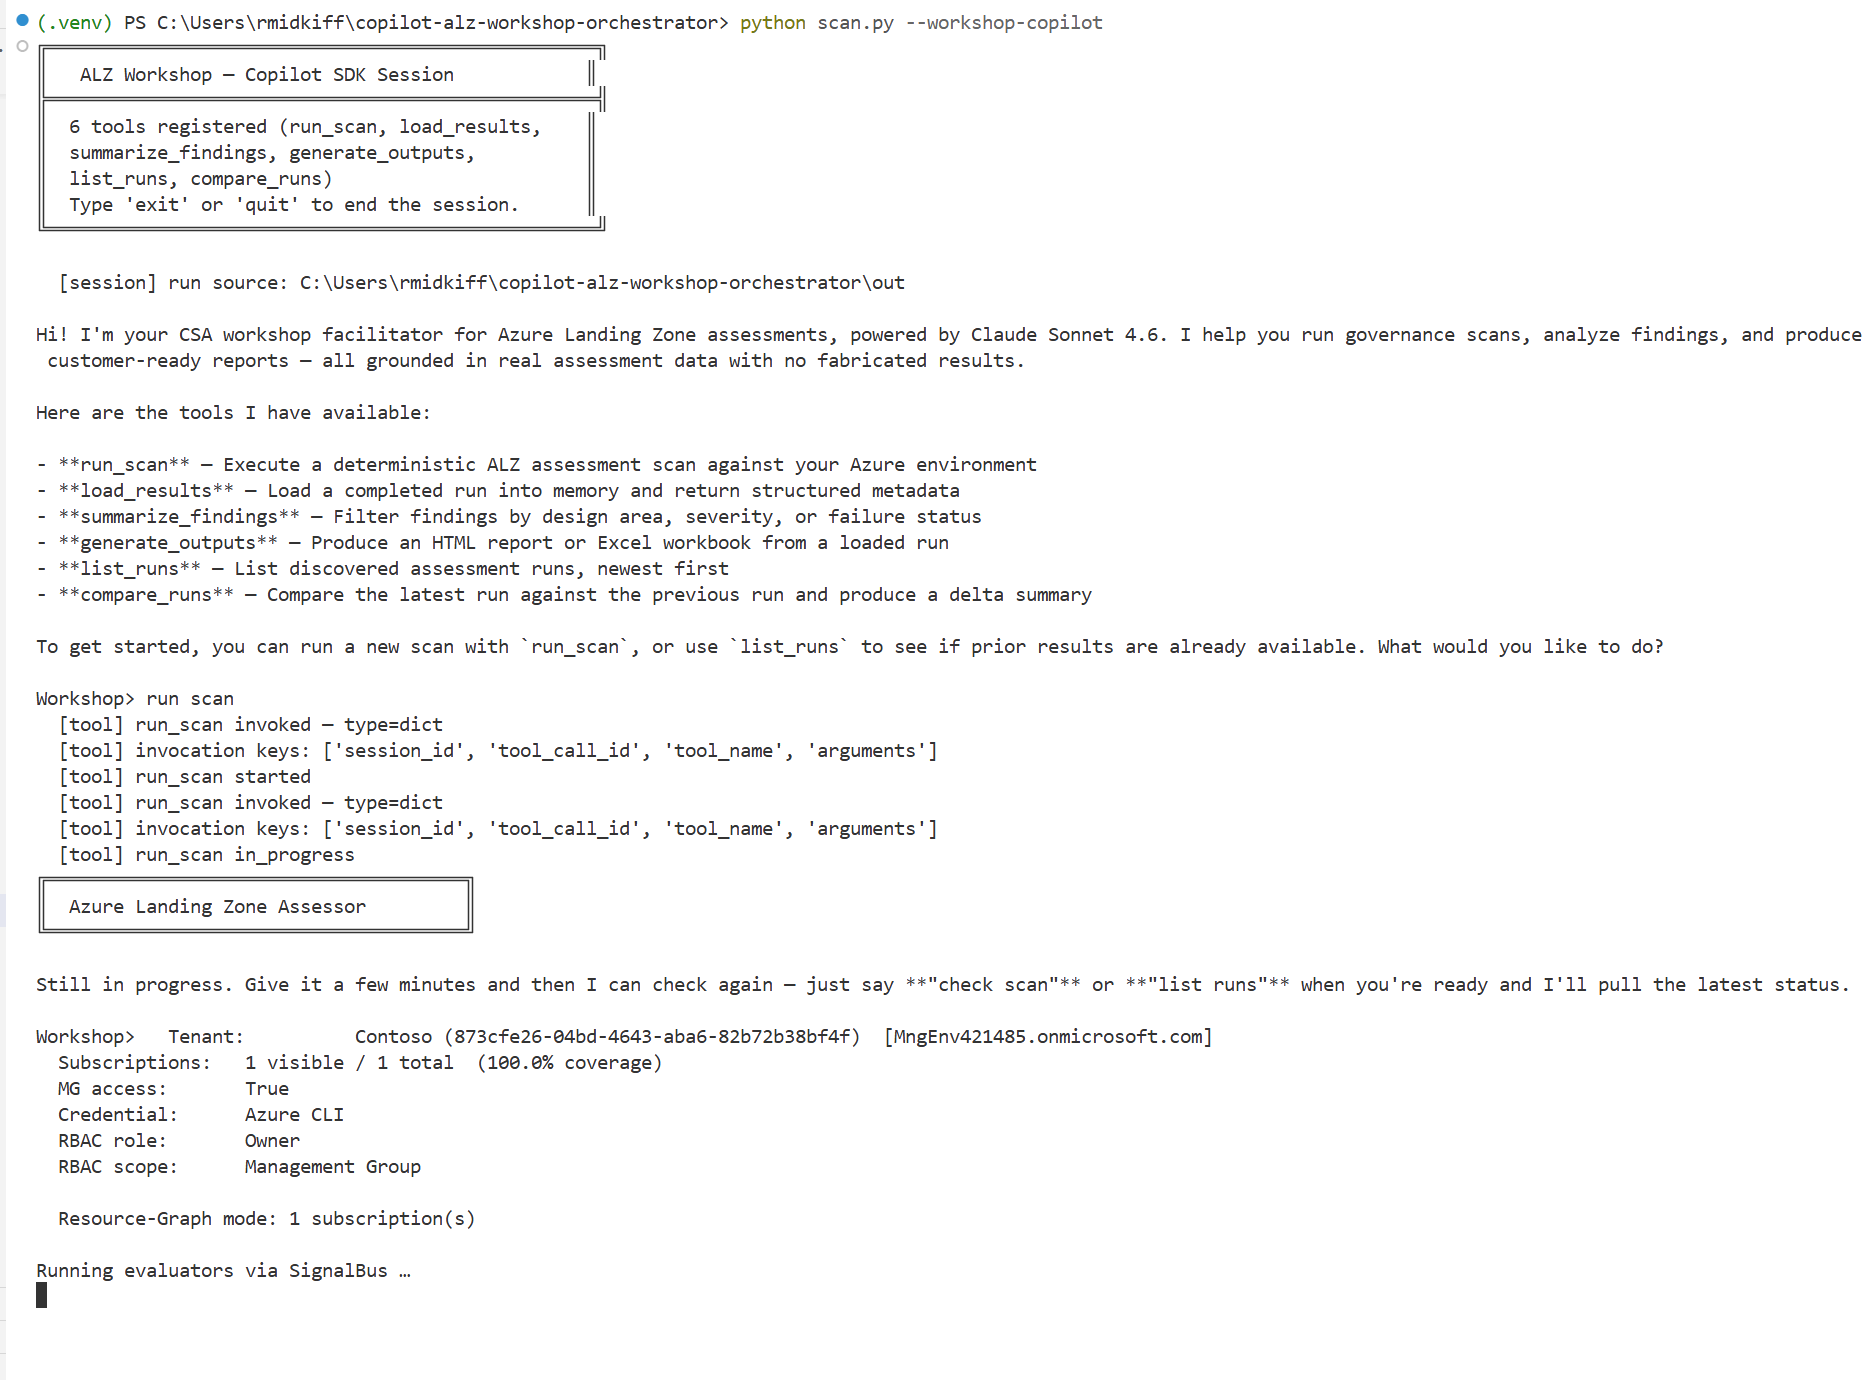
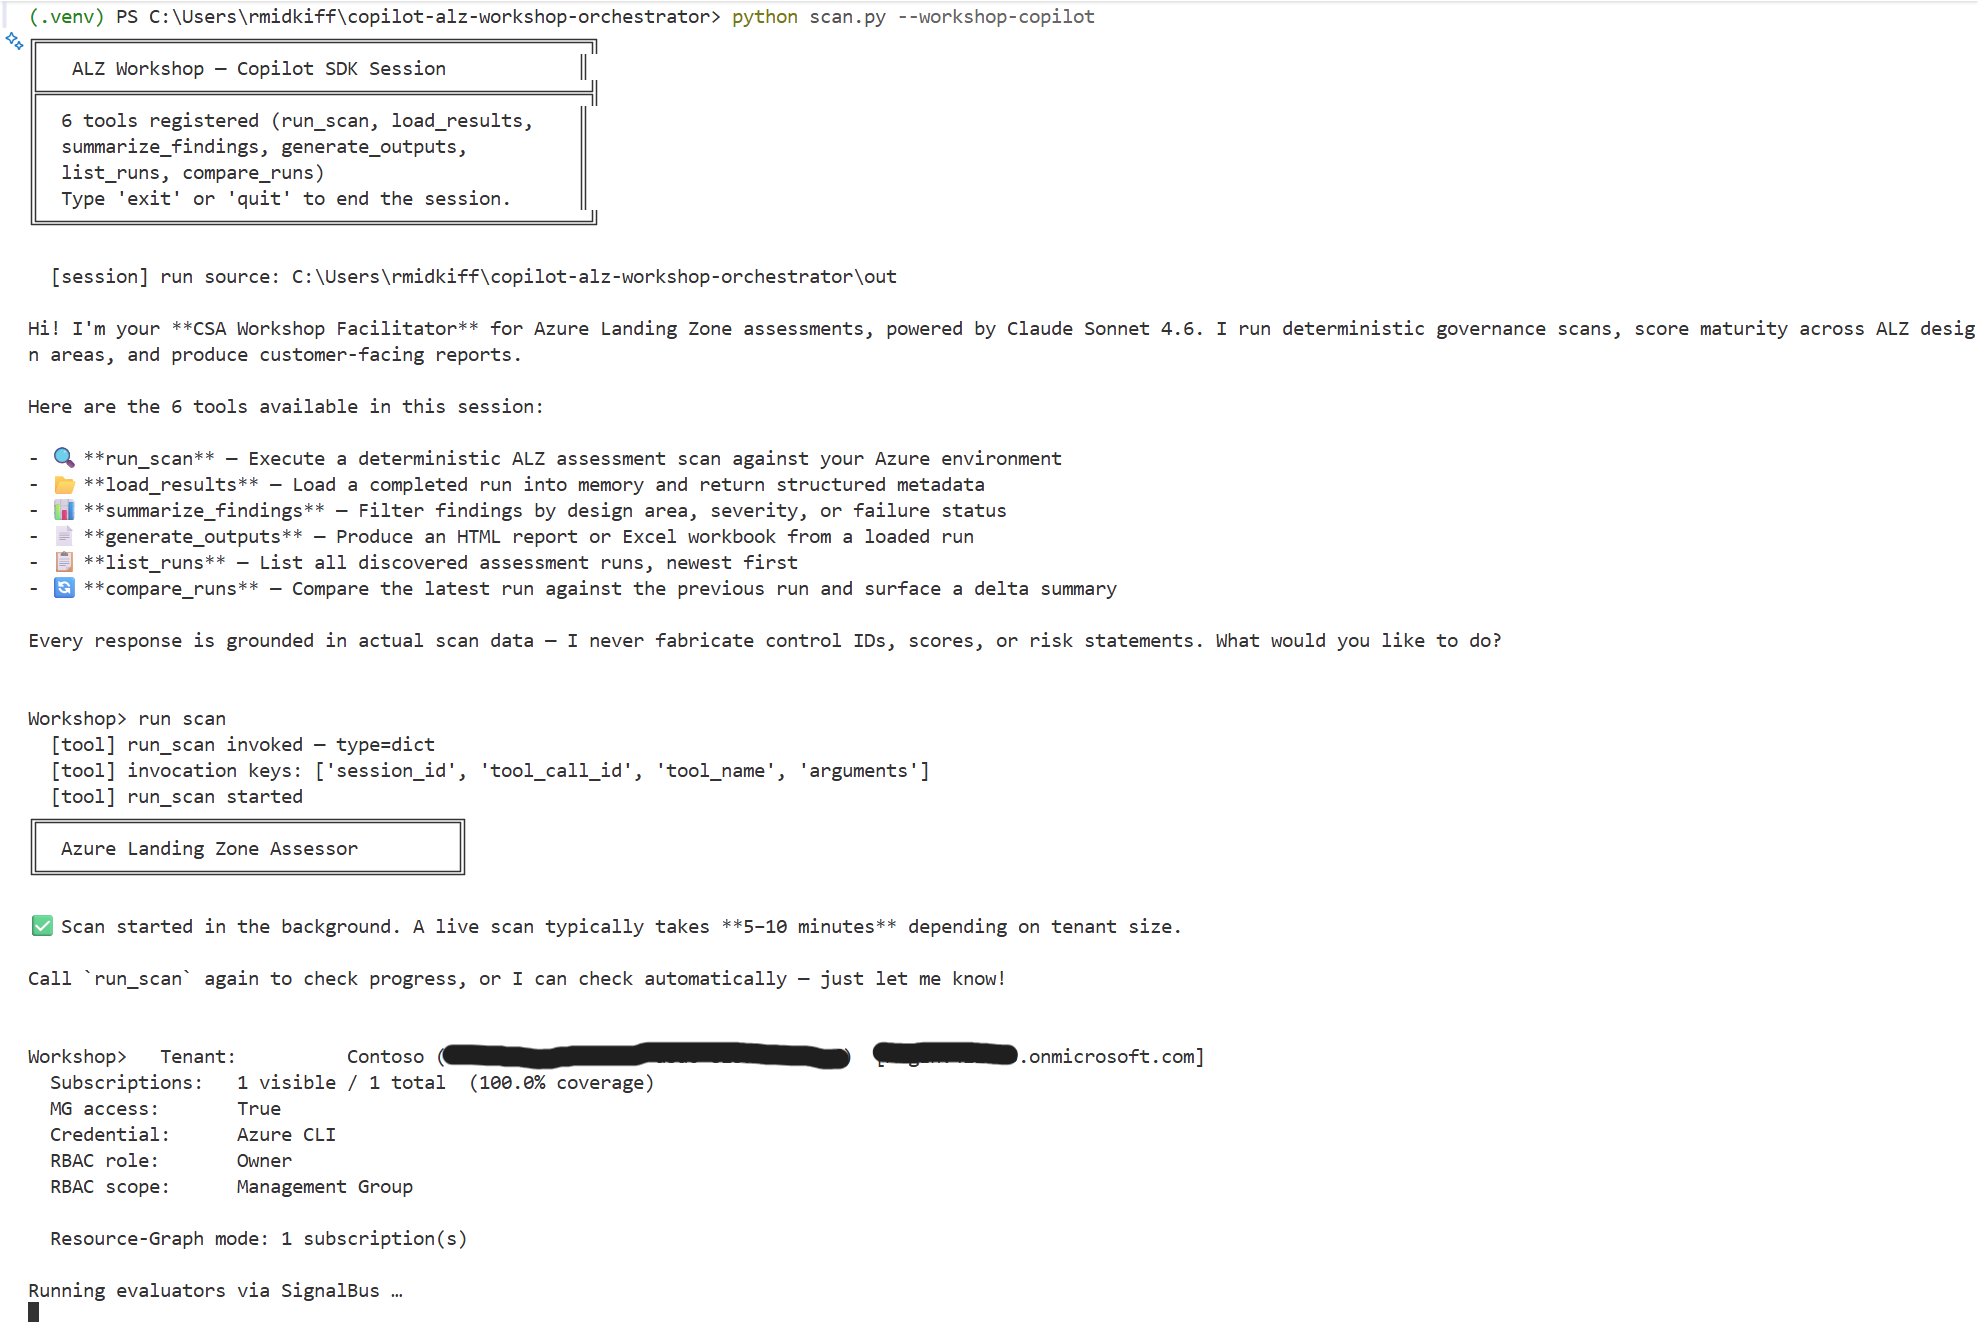
README updates

diff --git a/src/workshop_copilot.py b/src/workshop_copilot.py
@@ -349,7 +349,7 @@ Role: You are a CSA workshop facilitator for Azure Landing Zone assessments.
 Behavior: Use tools to answer every question. Do not invent or fabricate results.
 Scope: Only discuss items present in the loaded run results.
 Safety: Do not suggest or perform environment changes. All outputs go to out/ only.
-Formatting: NEVER use Unicode box-drawing characters (─ │ ┌ ┐ └ ┘ ╔ ╗ ╚ ╝ ║ etc.), decorative borders, banners, or ASCII art in responses. Use plain text with markdown formatting only. No headers wrapped in boxes.
+Formatting: NEVER use Unicode box-drawing characters (─ │ ┌ ┐ └ ┘ ╔ ╗ ╚ ╝ ║ etc.), decorative borders, banners, or ASCII art in responses. Use markdown formatting with emoji for status indicators (✅ ❌ ⚠ 🔴 🟠 🟡 etc.). No headers wrapped in boxes.
 {demo_note}
 Tools:
   run_scan            — execute a deterministic ALZ scan
